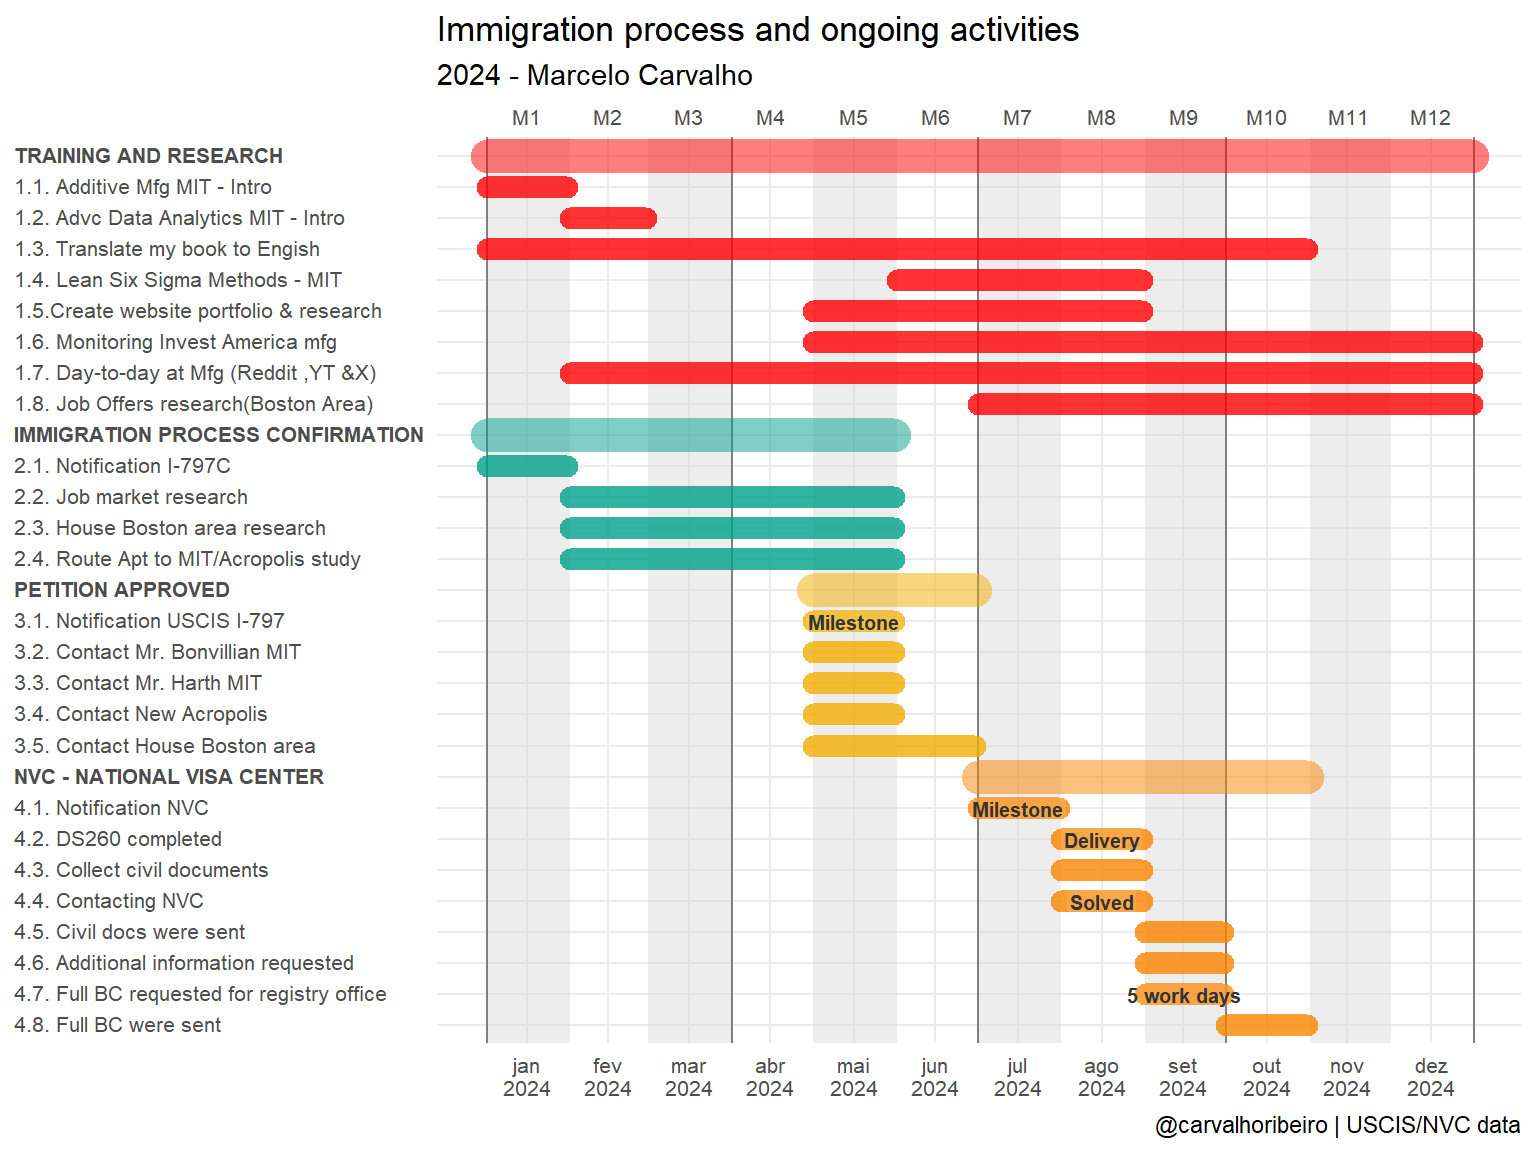
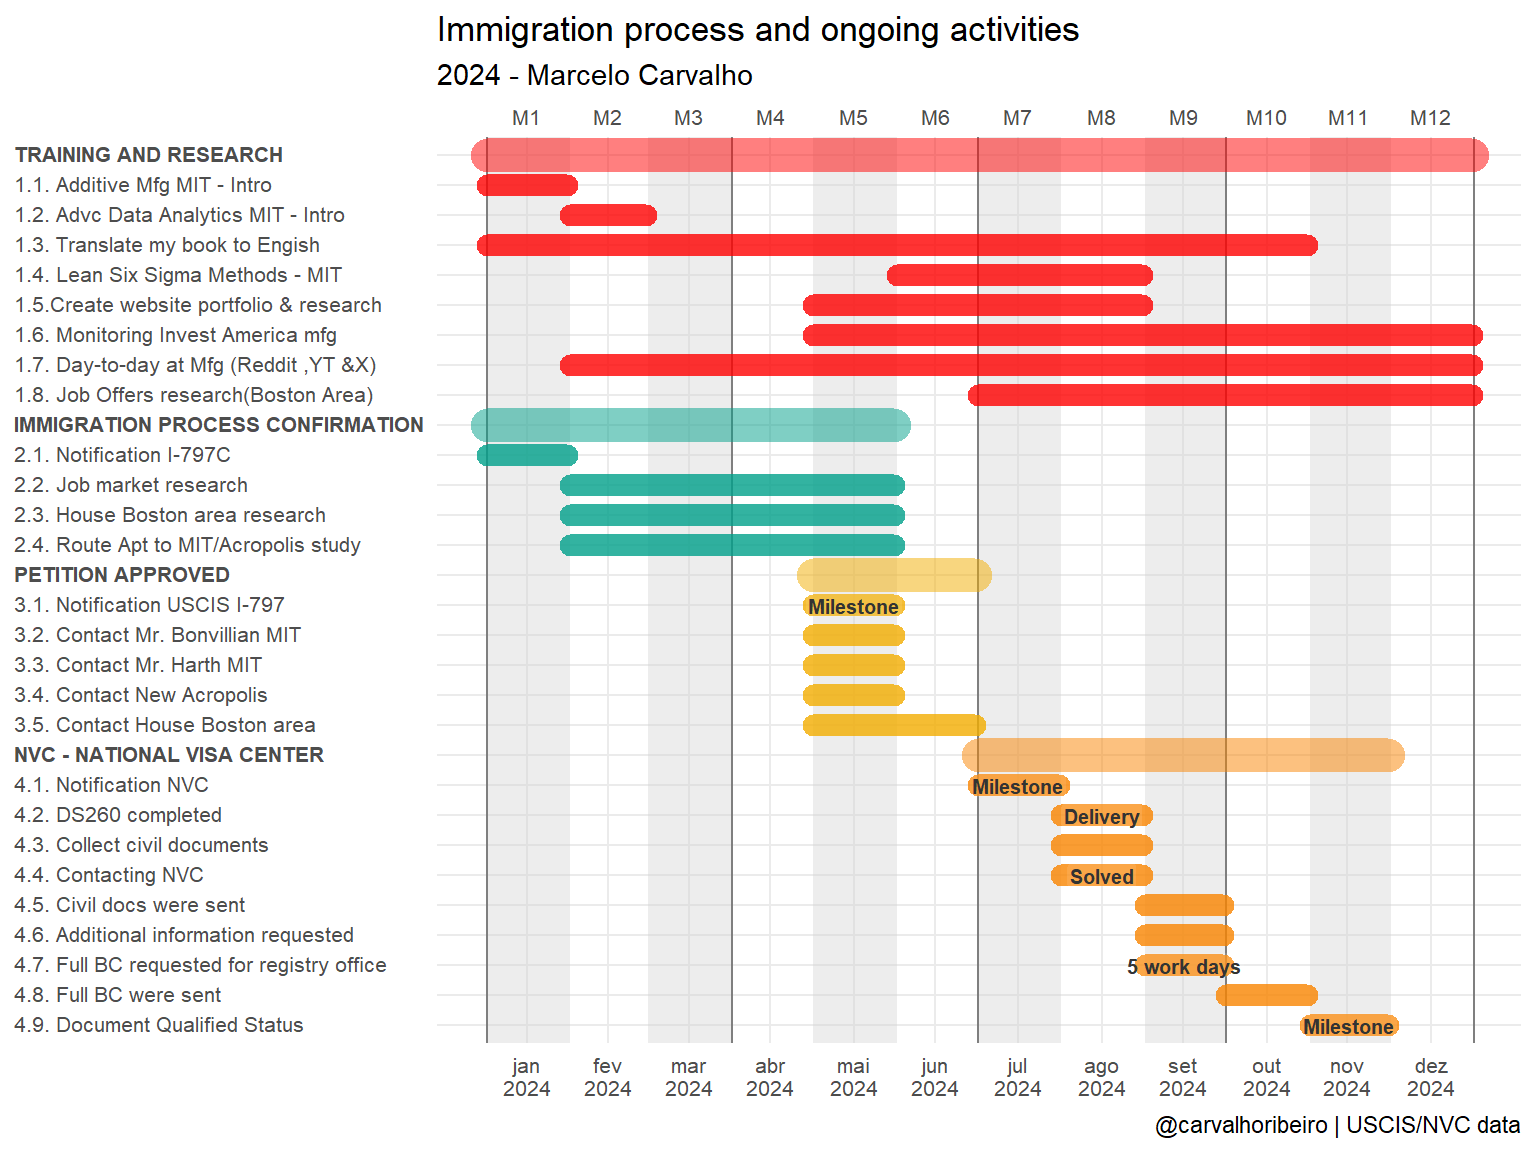
update status

Changed region(s): [[0.3125, 0.1875, 0.9688, 0.9062], [0.0, 0.125, 0.2812, 0.9062]]

diff --git a/docs/calendar.html b/docs/calendar.html
@@ -233,11 +233,11 @@ ul.task-list li input[type="checkbox"] {
 
 <section id="calendar-2024" class="level3">
 <h3 class="anchored" data-anchor-id="calendar-2024"><span style="color: #9D0F6A ;">Calendar 2024</span></h3>
-<div class="cell">
+<div class="cell" data-layout-align="center">
 <div class="cell-output-display">
-<div>
+<div class="quarto-figure quarto-figure-center">
 <figure class="figure">
-<p><img src="calendar_files/figure-html/unnamed-chunk-1-1.png" class="img-fluid figure-img" width="768"></p>
+<p><img src="calendar_files/figure-html/unnamed-chunk-1-1.png" class="img-fluid quarto-figure quarto-figure-center figure-img" width="768"></p>
 </figure>
 </div>
 </div>
@@ -245,30 +245,31 @@ ul.task-list li input[type="checkbox"] {
 </section>
 <section id="activity-details" class="level3">
 <h3 class="anchored" data-anchor-id="activity-details"><span style="color: #9D0F6A ;">Activity details</span></h3>
-<ul>
-<li><p><strong>1.1. Additive Mfg MIT - Intro:</strong> Classes about design and 3D printing using metal, plastics among other materials</p></li>
-<li><p><strong>1.2. Advc Data Analytics MIT - Intro:</strong> Classes about industry driven problem solving using IoT, data, machine learning/deep learning models and statistical process control.</p></li>
-<li><p><strong>1.3. Translate my book to Engish:</strong> Translate my book “PDCA and quality tools” from portuguese to english language.</p></li>
-<li><p><strong>1.4. Lean Six Sigma Methods - MIT:</strong> Classes about lean manufaturing to training lean principles applied to specific problems, english language, data, and references.</p></li>
-<li><p><strong>1.5.Create website portfolio &amp; research:</strong> This is the website we are now, and it contains updated information about projects, macroeconomic and operational data that I use in my day-to-day work, and also the study I am doing on the document Action Plan for U.S. Leadership in Advanced Manufacturing.</p></li>
-<li><p><strong>1.6. Monitoring Invest America mfg:</strong> News(YouTube, X, CBS News, CNBC, Bloomberg) about the construction stages of manufacturing plants such as Microsoft, Toyota, SK, Samsung, Tesla, Our Next Energy, Texas Instruments among others.</p></li>
-<li><p><strong>1.7. Day-to-day at Mfg (Reddit ,YT &amp;X):</strong> Study on the problems encountered in day-to-day manufacturing processes in the U.S., such as negotiation with suppliers, concepts such as TCO(total cost of ownership), trade agreements between countries, logistics, tariffs, MFN (Most Favored Nation) status with the destination country, etc.</p></li>
-<li><p><strong>1.8. Job Offers research(Boston Area):</strong> Research on skills required by companies in the Boston area.</p></li>
-<li><p><strong>2.1. Notification I-797C:</strong> Notifications</p></li>
-<li><p><strong>2.2. Job market research:</strong> Analysis of job offers in the process improvement available in the Boston area.</p></li>
-<li><p><strong>2.3. House Boston area research:</strong> Analysis of available housing in the Boston area.</p></li>
-<li><p><strong>2.4. Route Apt to MIT/Acropolis study:</strong> Analysis of distances, routes, available public transportation, and travel time from the neighborhood to the MIT and New Acropolis Boston schools.</p></li>
-<li><p><strong>3.1. Notification USCIS I-797:</strong> Important Notification</p></li>
-<li><p><strong>3.2. 3.3. 3.4. Contact MIT Professors:</strong> Contact with Professors to reinforce my interest in workforce-oriented courses at MIT and continuing philisophy courses at New Acropolis Boston.</p></li>
-<li><p><strong>3.5. Contact House Boston area:</strong> Research the conditions and prices for housing rentals in the Boston area.</p></li>
-<li><p><strong>4.1. Notification NVC:</strong> Important Notification</p></li>
-<li><p><strong>4.2. DS260 completed:</strong> Submission of documents</p></li>
-<li><p><strong>4.3. Collect civil documents:</strong> Request and collection of civil documents</p></li>
-<li><p><strong>4.4. Contacting NVC:</strong></p></li>
-<li><p><strong>4.5. Civil docs were sent:</strong></p></li>
-<li><p><strong>4.6. Additional info requested:</strong> Full birth certificate (inteiro teor)</p></li>
-<li><p><strong>4.7. Full BC requested for civil registry office:</strong></p></li>
-</ul>
+<p><strong>1.1. Additive Mfg MIT - Intro:</strong> Classes about design and 3D printing using metal, plastics among other materials<br>
+<strong>1.2. Advanced Data Analytics MIT - Intro:</strong> Classes about industry driven problem solving sing IoT, data, machine learning/deep learning models and statistical process control.<br>
+<strong>1.3. Translate my book to English:</strong> The book <img src="https://factorialmap.github.io/pdca/.png" class="img-fluid" alt="PDCA method and quality tools"> from portuguese to english.<br>
+<strong>1.4. Lean Six Sigma Methods - MIT:</strong> Classes of lean principles applied to manufaturing from MIT.<br>
+<strong>1.5.Create website portfolio &amp; research:</strong> This website with updates that I use in my day-to-day work like projects, studies, and macroeconomic data.<br>
+<strong>1.6. Monitoring Invest America mfg:</strong> News(YouTube, X, CBS News, CNBC, Bloomberg) about the construction stages of manufacturing plants such as Microsoft, Toyota, SK, Samsung, Tesla, Our Next Energy, Texas Instruments among others.<br>
+<strong>1.7. Day-to-day at Mfg (Reddit ,YT &amp;X):</strong> Study on the problems encountered in day-to-day manufacturing processes in the U.S., such as negotiation with suppliers, concepts such as TCO(total cost of ownership), trade agreements between countries, logistics, tariffs, MFN (Most Favored Nation) status with the destination country, etc.<br>
+<strong>1.8. Job Offers research(Boston Area):</strong> Research on skills required by companies in the Boston area.<br>
+<strong>2.1. Notification I-797C:</strong> Notifications<br>
+<strong>2.2. Job market research:</strong> Analysis of job offers in the process improvement available in the Boston area.<br>
+<strong>2.3. House Boston area research:</strong> Analysis of available housing in the Boston area.<br>
+<strong>2.4. Route Apt to MIT/Acropolis study:</strong> Analysis of distances, routes, public transportation, and travel time from the neighborhood to the MIT and New Acropolis Boston.<br>
+<strong>3.1. Notification USCIS I-797:</strong> Important Notification<br>
+<strong>3.2. 3.3. 3.4. Contact MIT Professors:</strong> Contact with Professors to reinforce my interest in workforce-oriented courses at MIT and continuing philisophy courses at New Acropolis Boston.<br>
+<strong>3.5. Contact House Boston area:</strong> Research the conditions and prices for housing rentals in the Boston area.<br>
+<strong>4.1. Notification NVC:</strong> Important Notification<br>
+<strong>4.2. DS260 completed:</strong> Submission of documents<br>
+<strong>4.3. Collect civil documents:</strong> Request and collection of civil documents<br>
+<strong>4.4. Contacting NVC:</strong><br>
+<strong>4.5. Civil docs were sent:</strong><br>
+<strong>4.6. Additional info requested:</strong> Full birth certificate (inteiro teor)<br>
+<strong>4.7. Full BC requested for civil registry office:</strong><br>
+<strong>4.8. Full BC were sent:</strong><br>
+<strong>4.9. Document Qualified Status:</strong> Ok<br>
+</p>
 
 
 </section>
